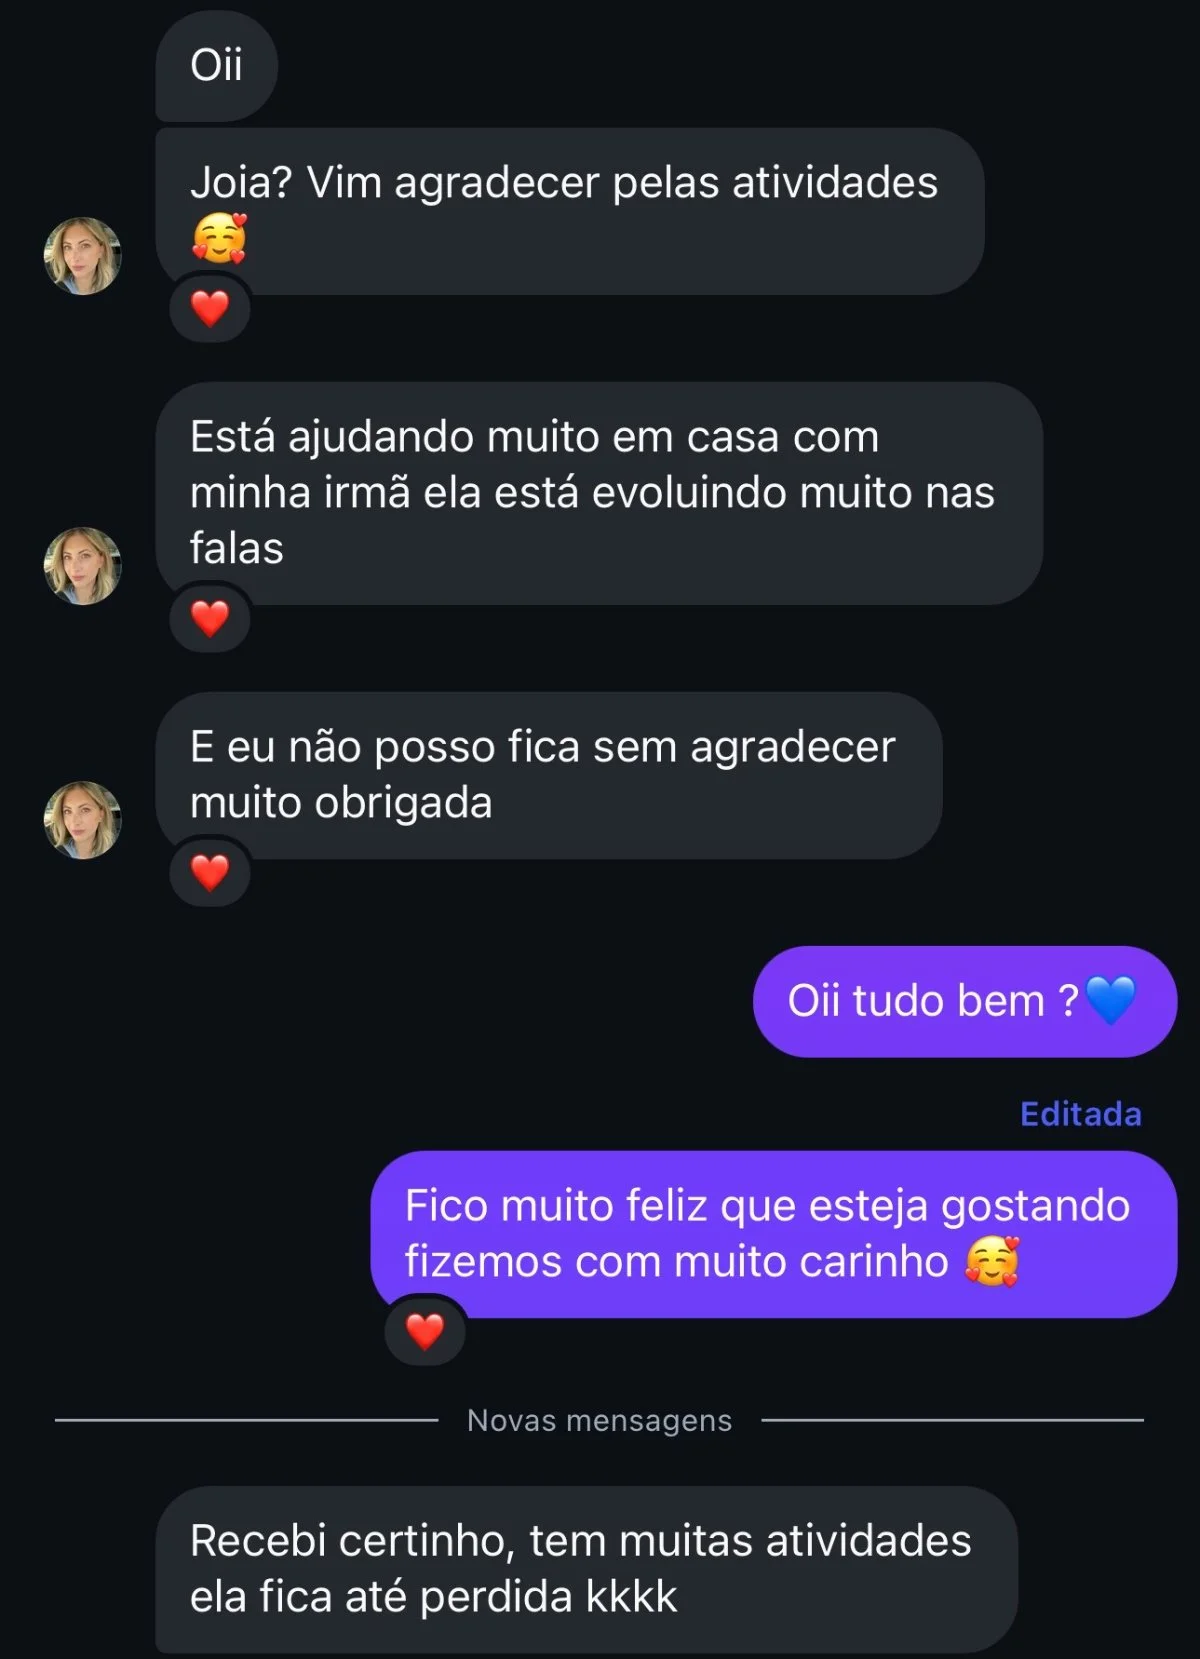
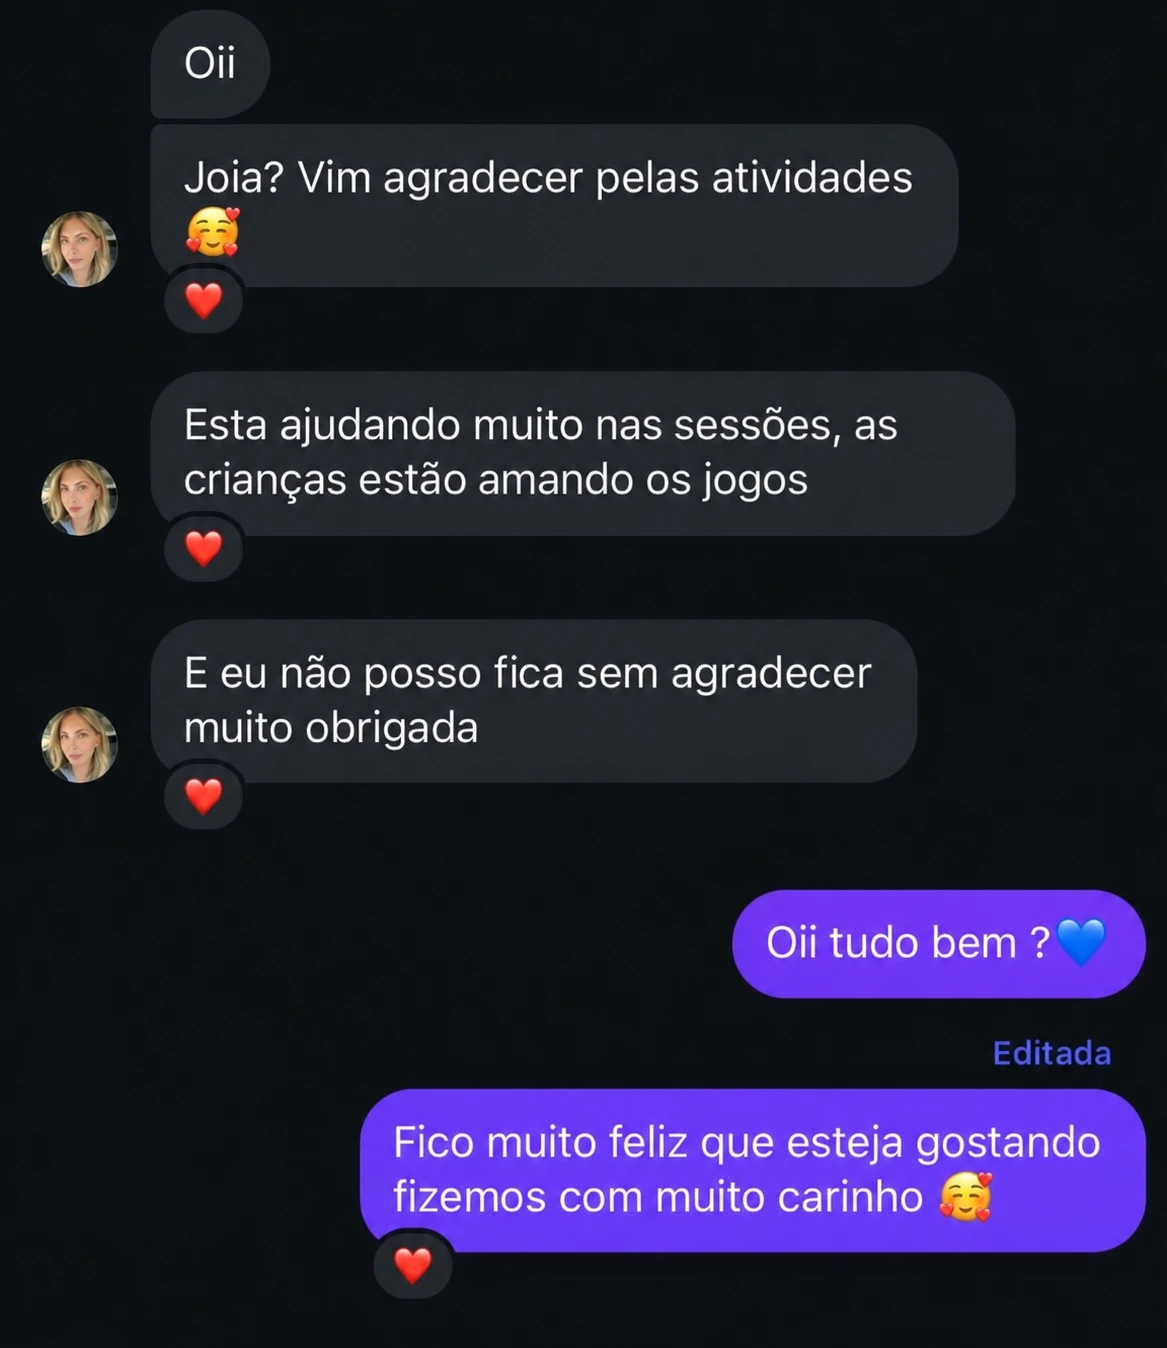
Atualiza depoimentos com prints reais do Jogo Certo
- Troca o carrossel de depoimentos para usar dep2, dep3 (novos,
  específicos do Jogo Certo) e dep1 (mantido)
- Remove dep4, não usado mais
- Corrige textos que ainda diziam "kit" na seção de depoimentos

diff --git a/index.html b/index.html
@@ -1095,7 +1095,7 @@
   <section id="testimonials" style="padding-bottom:32px;">
     <div class="container">
       <div class="section-label"><span class="tag tag-teal">O que estão dizendo</span></div>
-      <h2 class="section-headline">Psicólogas que já usam o kit</h2>
+      <h2 class="section-headline">Psicólogas que já usam o Jogo Certo</h2>
       <p class="section-sub">Quem já usa conta o que mudou.</p>
 
       <div class="t-carousel-wrap">
@@ -1104,15 +1104,15 @@
           <div class="t-track">
 
             <div class="t-slide">
-              <img src="imagens/dep1.webp" alt="Depoimento 1" class="t-img" loading="lazy">
-            </div>
-
-            <div class="t-slide">
-              <img src="imagens/dep4.webp" alt="Depoimento 4" class="t-img" loading="lazy">
-            </div>
-
-            <div class="t-slide">
               <img src="imagens/dep2.webp" alt="Depoimento 2" class="t-img" loading="lazy">
+            </div>
+
+            <div class="t-slide">
+              <img src="imagens/dep3.webp" alt="Depoimento 3" class="t-img" loading="lazy">
+            </div>
+
+            <div class="t-slide">
+              <img src="imagens/dep1.webp" alt="Depoimento 1" class="t-img" loading="lazy">
             </div>
 
             <!-- PARA ADICIONAR MAIS: copie um bloco acima e adicione um <button class="t-dot"> nos dots abaixo -->
@@ -1129,7 +1129,7 @@
 
       <div style="text-align:center; padding: 32px 0 0;">
         <p style="font-size:15px; color:var(--body); max-width:480px; margin:0 auto 10px; line-height:1.6;">
-          Agora veja exatamente tudo que está incluído no Kit Completo.
+          Agora veja exatamente tudo que está incluído no Jogo Certo.
         </p>
         <p style="font-size:13px; font-weight:600; color:var(--muted); margin:0; display:inline-flex; align-items:center; gap:6px;">
           <i data-lucide="arrow-down-circle" style="width:16px;height:16px;color:var(--teal);"></i>
